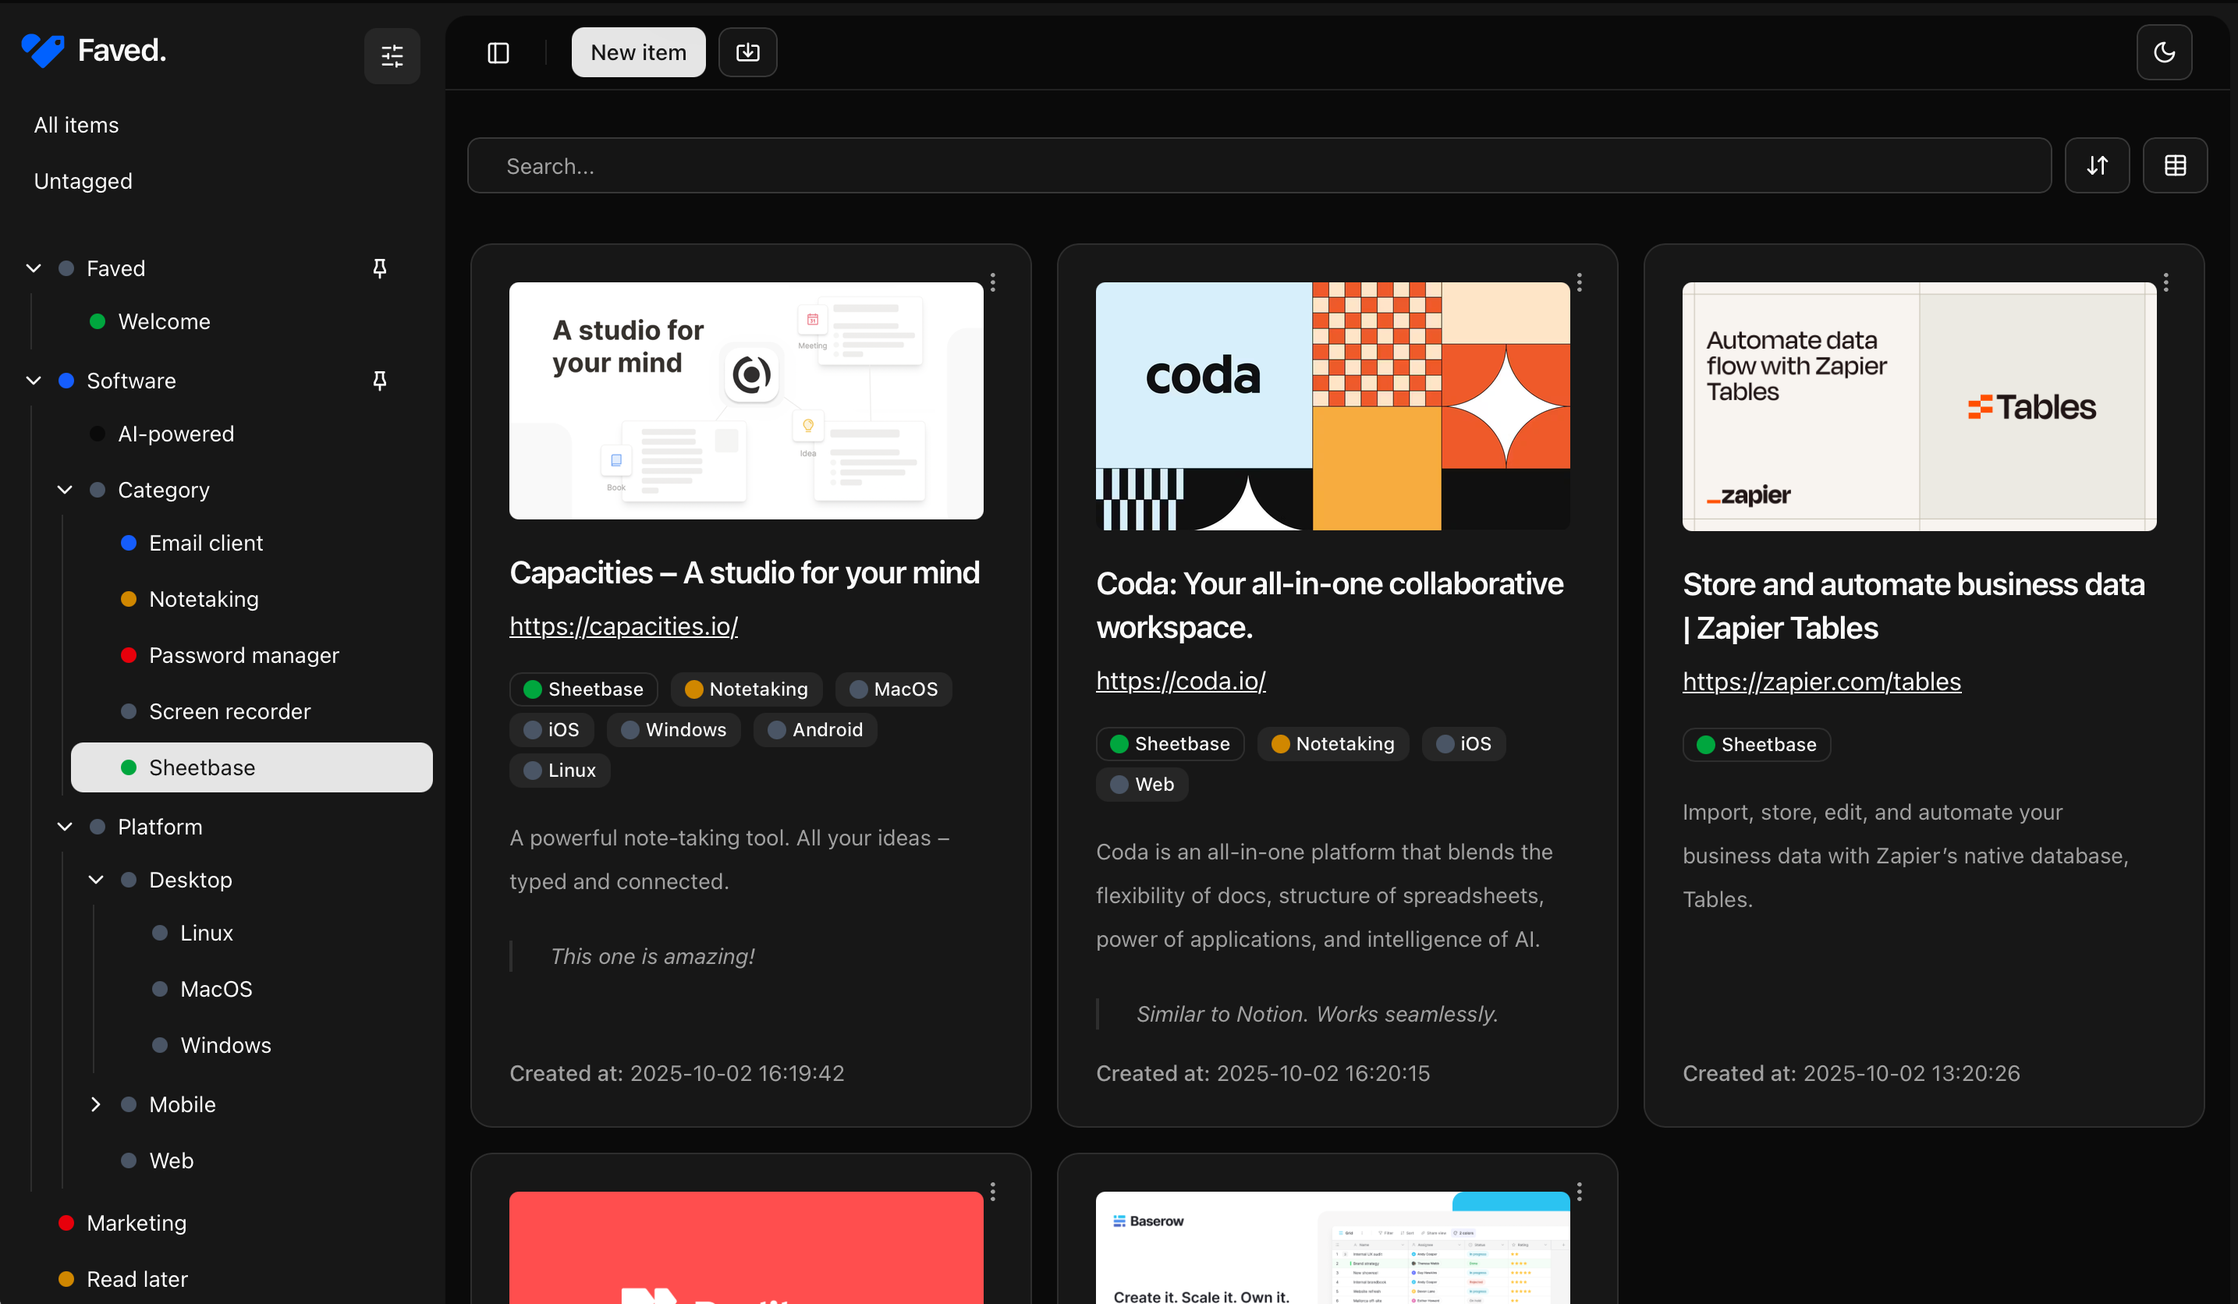
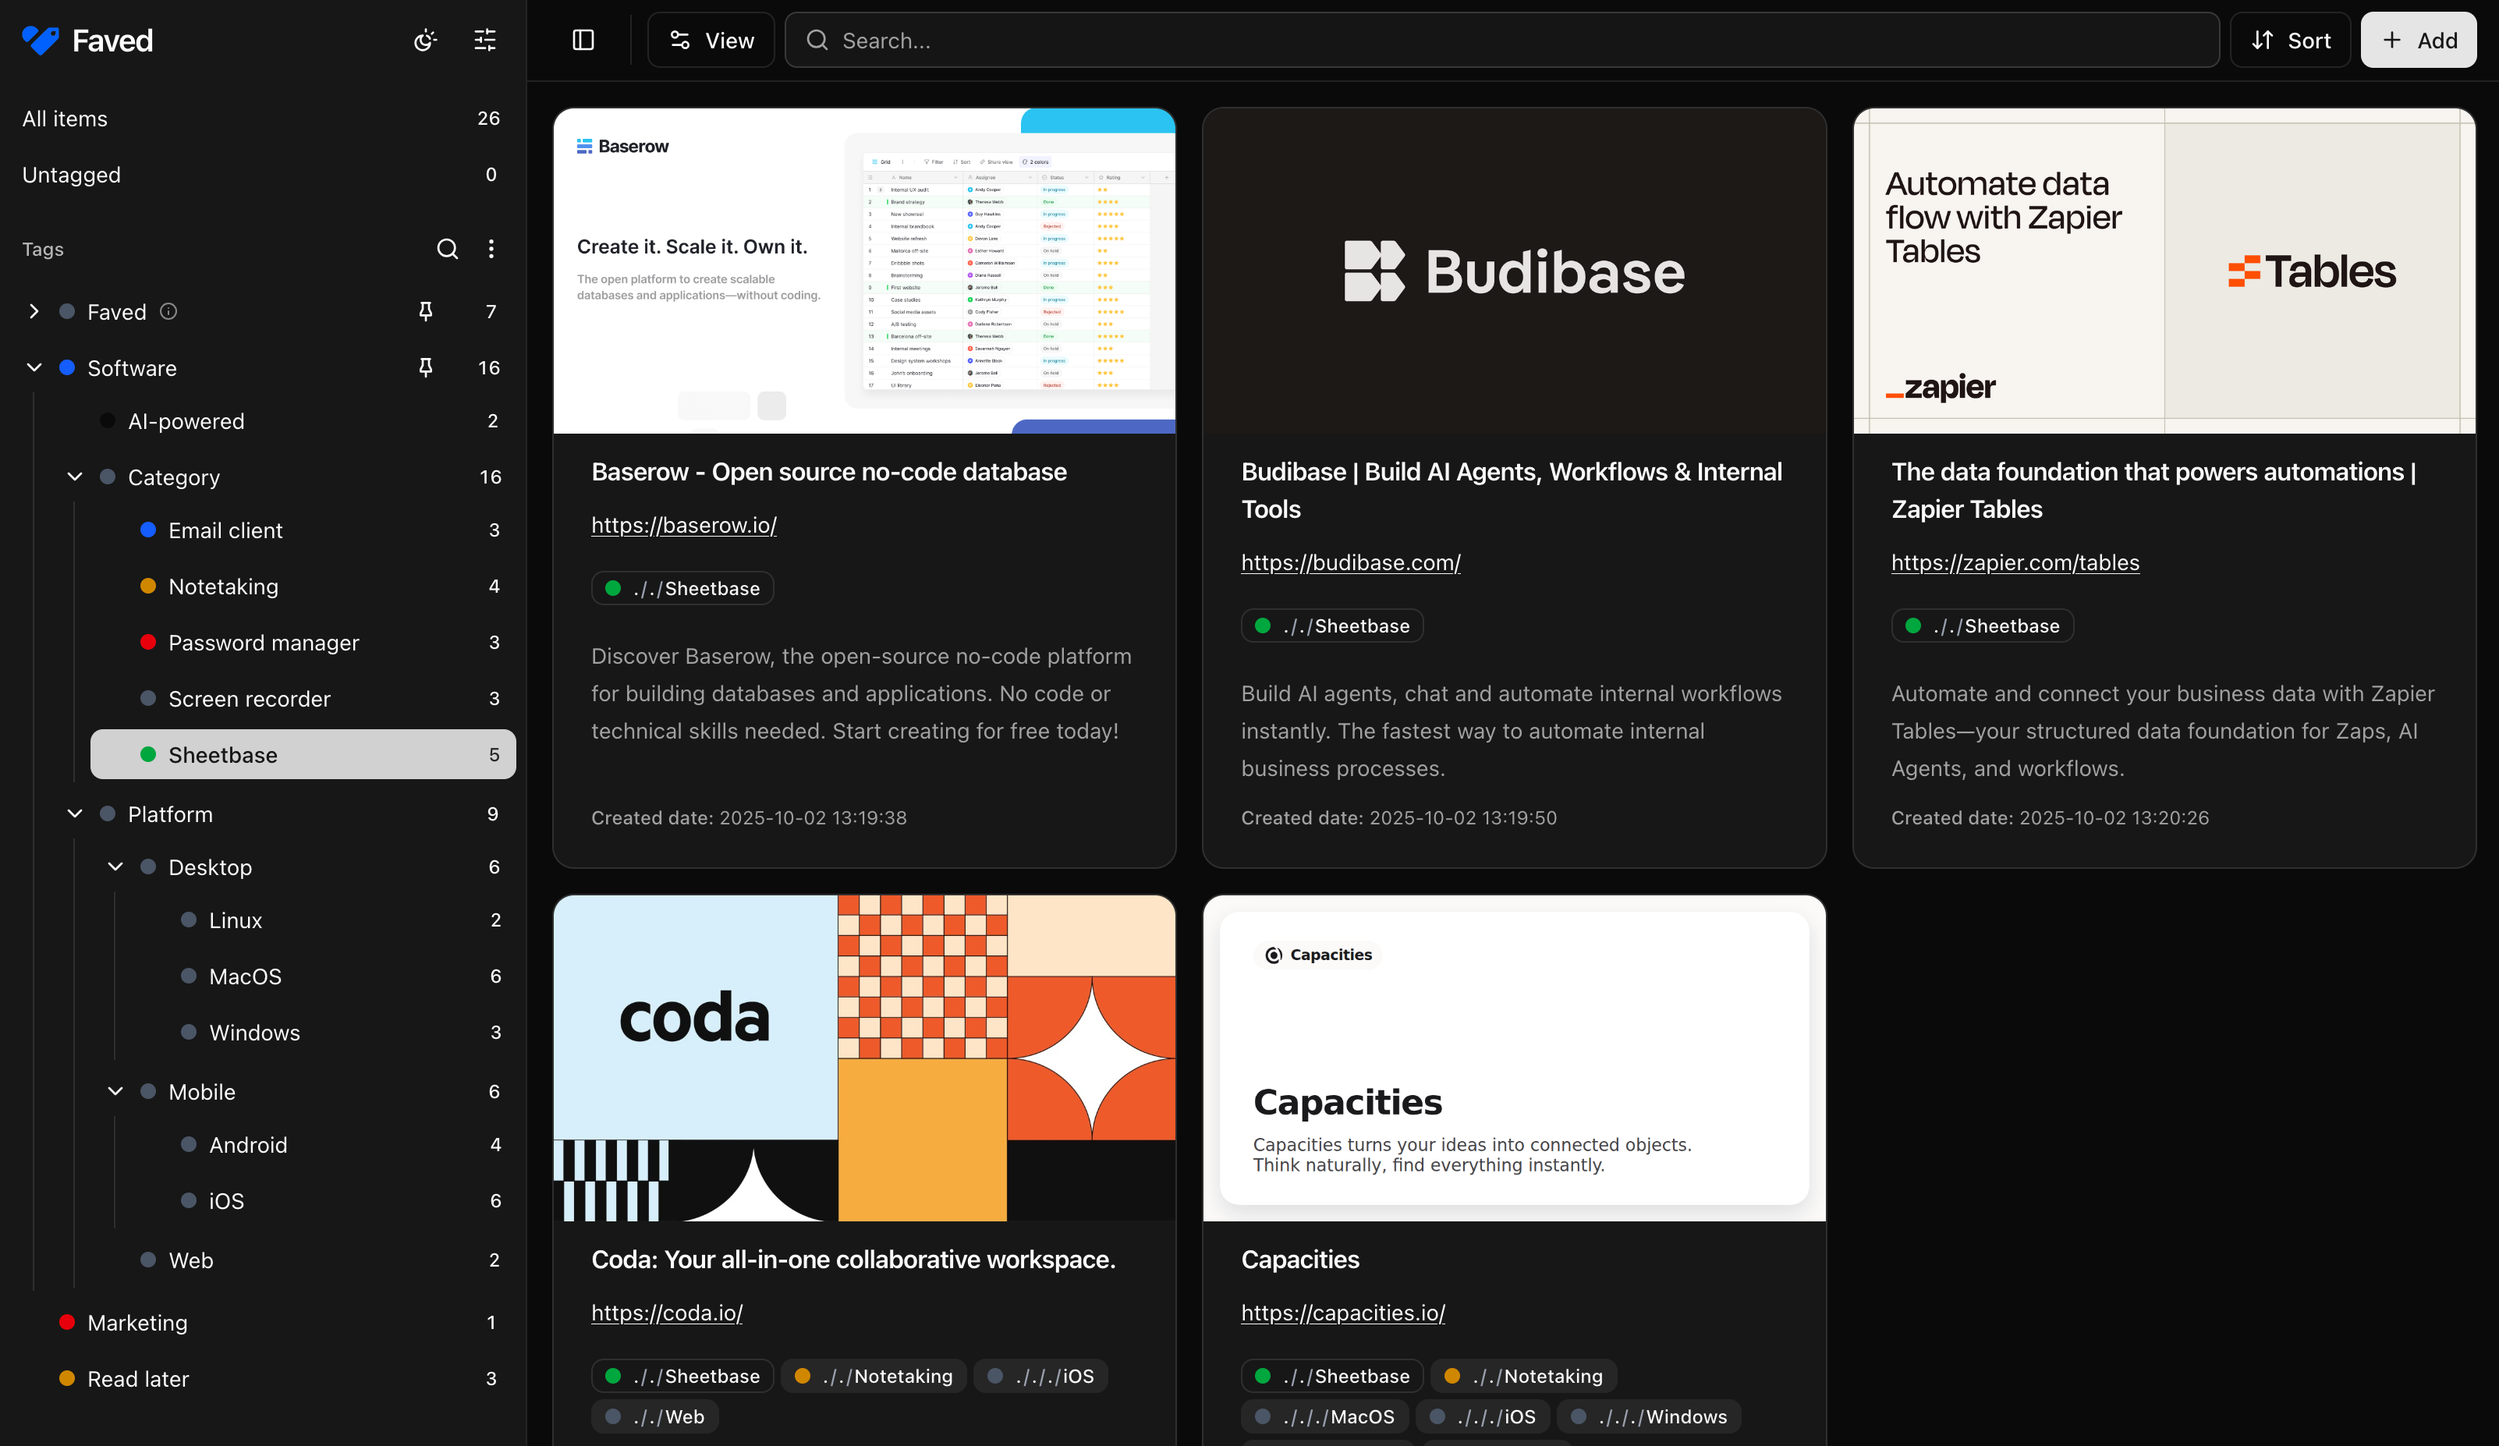
Update features section with new features and update hero section screenshot.

diff --git a/components/sections/items/default.tsx b/components/sections/items/default.tsx
@@ -8,6 +8,7 @@ import {
   faBookmark,
   faCodeBranch,
   faFileImport,
+  faMagnifyingGlass,
   faServer,
   faTags,
 } from '@fortawesome/free-solid-svg-icons'
@@ -40,43 +41,51 @@ export default function Items({
       icon: <FontAwesomeIcon icon={faCodeBranch} className="size-5 stroke-1" />,
     },
     {
-      title: 'Browser Bookmarklet',
+      title: 'Lightning Fast',
       description:
-        'Save bookmarks from any browser with a simple bookmarklet without installing additional extensions. Works on any desktop and mobile browser.',
-      icon: <FontAwesomeIcon icon={faBookmark} className="size-5 stroke-1" />,
-    },
-    {
-      title: '  Lightning Fast',
-      description:
-        'Blazing performance with full page loads of 2000+ bookmarks under 100ms, ensuring a smooth experience even with large collections.',
+        'Exceptional performance delivering a smooth and responsive experience even with extensive collections.',
       icon: <FontAwesomeIcon icon={faBolt} className="size-5 stroke-1" />,
     },
     {
-      title: 'Import from Pocket',
-      description:
-        'Seamlessly import your existing bookmarks from Pocket to transition to self-hosted storage.',
-      icon: <FontAwesomeIcon icon={faFileImport} className="size-5 stroke-1" />,
-    },
-    {
-      title: 'Tagging System',
-      description:
-        'Organize bookmarks with custom nested tags. Apply different styling to tags and pin important tags at the top for quick access.',
-      icon: <FontAwesomeIcon icon={faTags} className="size-5 stroke-1" />,
-    },
-    // NEW
-    {
       title: 'Responsive design',
-      description: 'Looks and works great on any device and screen size',
+      description: 'Works seamlessly across all devices and screen sizes.',
       icon: <MonitorSmartphoneIcon className="size-5 stroke-1" />,
     },
+
     {
       title: 'Light and dark mode',
-      description: 'Seamless switching between color schemes, 6 themes included',
+      description:
+        'Automatically syncs with your system theme, with the option to manually switch between light and dark modes.',
       icon: <EclipseIcon className="size-5 stroke-1" />,
     },
     {
+      title: 'Advanced Tagging System',
+      description:
+        'Organize bookmarks with custom nested tags. Apply different styling to tags and pin important tags for quick access.',
+      icon: <FontAwesomeIcon icon={faTags} className="size-5 stroke-1" />,
+    },
+
+    {
+      title: 'Import from Anywhere',
+      description:
+        'Seamlessly import your existing bookmarks from any browser or service like Raindrop.io or Pocket to transition to self-hosted storage.',
+      icon: <FontAwesomeIcon icon={faFileImport} className="size-5 stroke-1" />,
+    },
+    {
+      title: 'Instant Search',
+      description: 'Find bookmarks instantly as you type in collections of any size.',
+      icon: <FontAwesomeIcon icon={faMagnifyingGlass} className="size-5 stroke-1" />,
+    },
+
+    {
+      title: 'Browser Bookmarklet',
+      description:
+        'Save bookmarks from any browser using a simple bookmarklet — no extensions required. Compatible with all desktop and most mobile browsers.',
+      icon: <FontAwesomeIcon icon={faBookmark} className="size-5 stroke-1" />,
+    },
+    {
       title: 'Localisation (coming soon)',
-      description: 'Support for multiple languages and regions is under development',
+      description: 'Support for multiple languages and regions is under development.',
       icon: <LanguagesIcon className="size-5 stroke-1" />,
     },
   ],

diff --git a/components/sections/hero/default.tsx b/components/sections/hero/default.tsx
@@ -47,8 +47,8 @@ export default function Hero({
       srcLight="/static/images/screenshot-list-desktop.png"
       srcDark="/static/images/screenshot-list-desktop.png"
       alt="Faved application screenshot"
-      width={1248}
-      height={765}
+      width={3204}
+      height={1854}
       className="w-full"
     />
   ),
